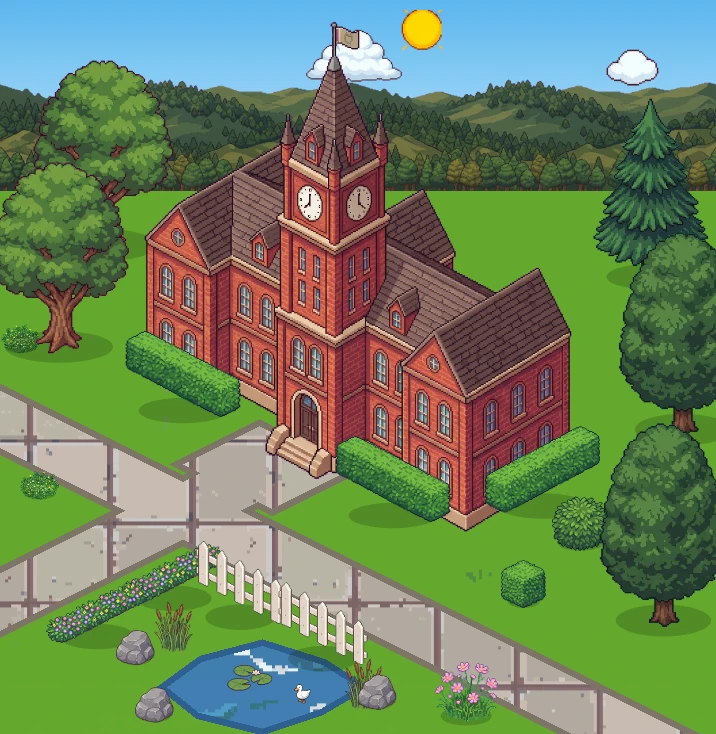
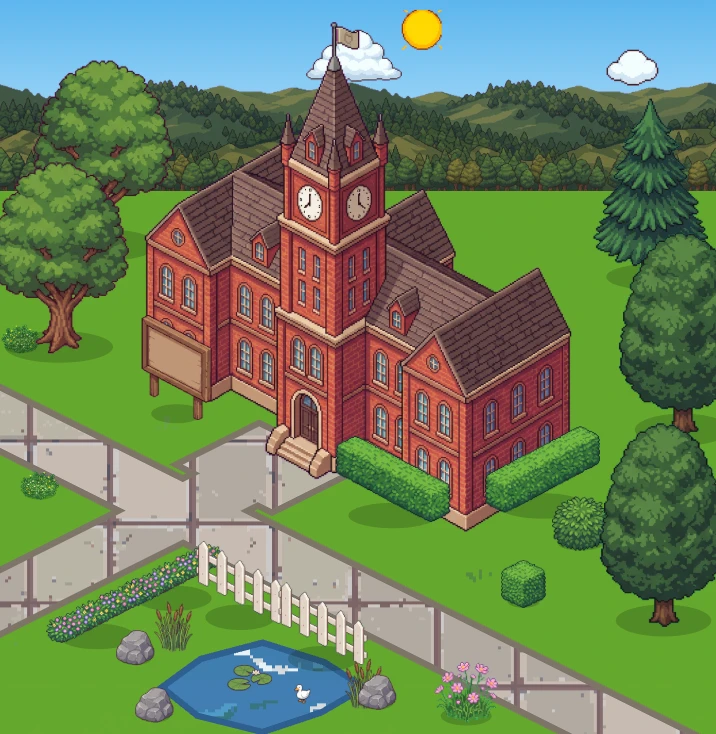
feat: 학교 Lv.4, Lv.5 배경 수정

Changed region(s): [[0.1536, 0.4196, 0.338, 0.5695]]

diff --git a/frontend/src/data/campusLayouts.ts b/frontend/src/data/campusLayouts.ts
@@ -314,8 +314,10 @@ export const CAMPUS_LAYOUTS: Readonly<Partial<Record<number, CampusLayout>>> = {
       // Pond life stays on the grass around the pond, clear of the paving (F3).
       at('reeds', iso(lv4Pond, -26, 2), { shadow: false }), at('reeds', iso(lv4Pond, 22, -10), { shadow: false, flip: true }), at('lily-pad', iso(lv4Pond, -2, 2), { shadow: false }),
       at('duck', iso(lv4Pond, 10, -2), { shadow: false }), at('rock', P(lv4Pond[0] + 36, lv4Pond[1] + 6)), at('rock', P(lv4Pond[0] - 34, lv4Pond[1] + 10)),
-      // In front of the main hall's left wing, not under it (user request 2026-11-09).
-      at('hedge', iso(faceMid(lv4Main, 'left'), -30, 8), { flip: true, depth: lv4Main.y + 1 }),
+      // The school signboard stands in front of the main hall's left wing, where a hedge was, facing the way the
+      // school does and drawn over the hall, as on Lv.3 (user request 2026-11-27).
+      at('signboard', iso(faceMid(lv4Main, 'left'), -30, 10), { flip: true, depth: lv4Main.y + 1 }),
+      // In front of the main hall's right wing, not under it (user request 2026-11-09).
       at('hedge', iso(faceMid(lv4Main, 'left'), 36, 8), { flip: true, depth: lv4Main.y + 1 }),
       at('hedge', iso(faceMid(lv4Main, 'right'), 8, 0), { depth: lv4Main.y + 1 }), at('bush-1', P(250, 212)), at('bush-2', P(232, 230)),
       ...scatter([P(80, 196), P(110, 248), P(286, 220), P(74, 150), P(214, 266)], 3),
@@ -340,13 +342,17 @@ export const CAMPUS_LAYOUTS: Readonly<Partial<Record<number, CampusLayout>>> = {
       lv5Main, lv5Library,
       at('tree-cherry-2', P(30, 236)), at('tree-cherry-1', P(170, 120)), at('tree-oak-2', P(296, 150)), at('tree-cherry-1', P(290, 214)),
       at('tree-cherry-2', P(250, 262), { flip: true }), at('tree-cherry-1', P(96, 262), { flip: true }), at('tree-cherry-2', P(20, 150)),
-      at('bench', iso(lv5Plaza, 0, 30)), at('bench', iso(lv5Plaza, 30, -26), { flip: true }),
+      at('bench', iso(lv5Plaza, 35, -12), { flip: true }),
       at('flowerbed-2', iso(lv5Plaza, 34, 30)), at('flowers-2', iso(lv5Plaza, -10, 32)), at('flowers-2', P(254, 222), { flip: true }),
-      at('lamp', iso(lv5Plaza, -26, -22)), at('lamp', iso(lv5Plaza, 26, 22)),
-      ...crowd(lv5Plaza, 20, 16, 5, 2),
+      // The lamps stand in front of the buildings, never hidden behind the library or the hall (user request 2026-11-27).
+      ...[iso(lv5Plaza, -26, 20), iso(lv5Plaza, 15, -23)].map((p) => at('lamp', p, { depth: Math.max(lv5Main.y, lv5Library.y) + 1 })),
+      ...crowd(lv5Plaza, 20, 16, 5, 141),
       ...scatter([P(230, 270), P(160, 272), P(286, 186)], 4),
+      // The school signboard stands on the lawn between the main hall and the library, turned toward the library
+      // side and drawn over the hall (user request 2026-11-27).
+      at('signboard', iso(faceMid(lv5Main, 'left'), -40, 22), { depth: lv5Main.y + 1 }),
       // Garden fill (F11, UF): planters along the hall front, a picket fence along the garden walk.
-      ...[-26, 26].map((u) => at('planter-strip', iso(faceMid(lv5Main, 'left'), u, 6), { flip: true, depth: lv5Main.y + 1 })),
+      ...[-20, 40].map((u) => at('planter-strip', iso(faceMid(lv5Main, 'left'), u, 12), { flip: true, depth: lv5Main.y + 1 })),
       ...[60, 86].map((u) => at('fence-picket', iso(lv5Plaza, u, 27), { flip: true })),
     ],
     features: { '중앙도서관': 'library-r', '벚꽃 정원': 'tree-cherry-1', '벤치': 'bench' },

diff --git a/frontend/tests/campusScene.test.ts b/frontend/tests/campusScene.test.ts
@@ -298,11 +298,14 @@ test('placements draw back to front by anchor y, then x, then input order', () =
 
 test('the Lv.4 hedge by the main hall draws in front of the hall (user request 2026-11-09)', () => {
   const order = sortPlacements(CAMPUS_LAYOUTS[4]!.items).map((i) => i.asset);
-  assert.equal(order.filter((a) => a === 'hedge').length, 3); // left wing, right of the entrance, lower-right wall
+  // Right of the entrance and lower-right wall; the left-wing hedge gave way to the school signboard (2026-11-27).
+  assert.equal(order.filter((a) => a === 'hedge').length, 2);
   assert.ok(order.indexOf('hedge') > order.indexOf('main-clocktower'), JSON.stringify(order));
-  // At night the window lights sit above the scene, so the hedge must mask them (lights bled over it).
+  assert.ok(order.indexOf('signboard') > order.indexOf('main-clocktower'), JSON.stringify(order));
+  // At night the window lights sit above the scene, so the hedges and the sign must mask them (lights bled over it).
   const hall = lightOccluders(CAMPUS_LAYOUTS[4]!.items).find((l) => l.item.asset === 'main-clocktower')!;
-  assert.equal(hall.occluders.filter((o) => o.asset === 'hedge').length, 3);
+  assert.equal(hall.occluders.filter((o) => o.asset === 'hedge').length, 2);
+  assert.equal(hall.occluders.filter((o) => o.asset === 'signboard').length, 1, 'window lights do not shine through the sign');
   render(React.createElement(CampusSceneLights, { level: 4, opacity: 1, twinkle: false }));
   const lights = document.querySelector('[data-lights="main-clocktower"]')!;
   const maskId = lights.closest('[mask]')!.getAttribute('mask')!.match(/url\(#(.+)\)/)![1];
@@ -466,6 +469,18 @@ test('Lv.3: lanterns, log benches and a notice board line the dirt paths', () =>
   const paths = layout.terrain.filter((t) => t.texture === 'tex-dirt');
   for (const post of layout.items.filter((i) => i.asset === 'lantern-post')) {
     assert.ok(paths.some((t) => polygonDistance([post.x, post.y], t.points) <= 8), `lantern at ${post.x},${post.y} is far from the paths`);
+  }
+});
+
+test('Lv.4·5도 Lv.3처럼 학교 표지판 하나가 정해진 방향으로 서고 본관보다 앞에 그려진다', () => {
+  // Lv.5's sign stands on the lawn toward the library, turned 90 degrees from Lv.4's (user request 2026-11-27).
+  for (const [level, flip] of [[4, true], [5, undefined]] as const) {
+    const layout = CAMPUS_LAYOUTS[level]!;
+    const hall = layout.items.find((i) => i.asset === 'main-clocktower')!;
+    const signs = layout.items.filter((i) => i.asset === 'signboard' || i.asset === 'notice-board');
+    assert.deepEqual(signs.map((i) => i.asset), ['signboard'], `Lv.${level} has exactly one sign, the signboard`);
+    assert.equal(signs[0].flip, flip, `Lv.${level}: the board's direction`);
+    assert.ok((signs[0].depth ?? signs[0].y) > hall.y, `Lv.${level}: the signboard is drawn in front of the main hall`);
   }
 });
 
